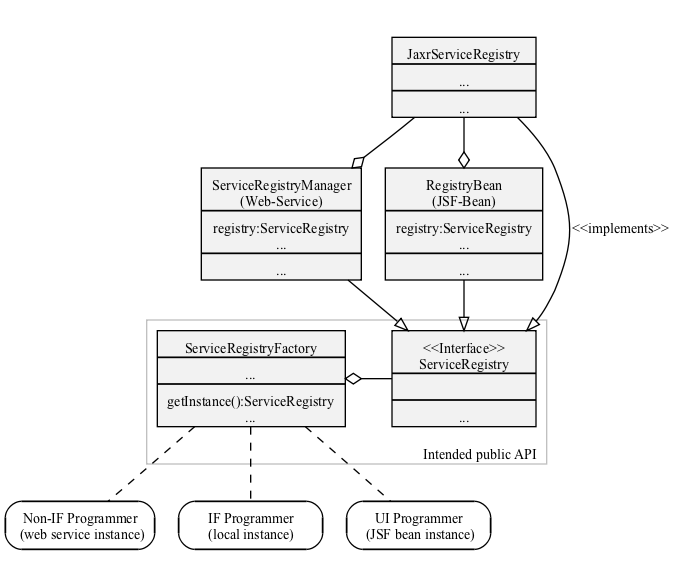
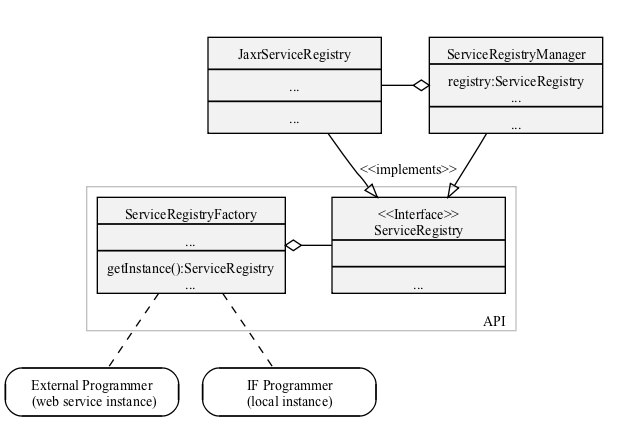
Updated registry documentation (diagrams); fixed registry tests for new build type EAR (changed endpoint URL).

Changed region(s): [[0.0, 0.0602, 0.9666, 0.9931], [0.8458, 0.3912, 0.9968, 0.4213]]

diff --git a/IF/registry/src/test/java/eu/planets_project/ifr/core/registry/api/jaxr/ServiceRegistryWebServiceTests.java b/IF/registry/src/test/java/eu/planets_project/ifr/core/registry/api/jaxr/ServiceRegistryWebServiceTests.java
@@ -11,7 +11,7 @@ import org.junit.BeforeClass;
 public final class ServiceRegistryWebServiceTests extends ServiceRegistryTests {
     /** The remote registry instance used for testing. */
     private static final String TEST_SERVER_WSDL = "http://localhost:8080/"
-            + "pserv-if-registry/ServiceRegistryManager?wsdl";
+            + "pserv-if-registry-pserv-if-registry/ServiceRegistryManager?wsdl";
 
     /** Create a registry and a mock object factory once for all tests. */
     @BeforeClass

diff --git a/IF/registry/src/test/java/eu/planets_project/ifr/core/registry/api/RegistryWebserviceTests.java b/IF/registry/src/test/java/eu/planets_project/ifr/core/registry/api/RegistryWebserviceTests.java
@@ -19,6 +19,6 @@ public class RegistryWebserviceTests extends CoreRegistryTests {
     public static void registryCreation() {
         registry = ServiceCreator.createTestService(Registry.QNAME,
                 RegistryWebservice.class,
-                "/pserv-if-registry/RegistryWebservice?wsdl", Mode.SERVER);
+                "/pserv-if-registry-pserv-if-registry/RegistryWebservice?wsdl", Mode.SERVER);
     }
 }

diff --git a/IF/registry/src/test/java/eu/planets_project/ifr/core/registry/api/FactoryRemoteTests.java b/IF/registry/src/test/java/eu/planets_project/ifr/core/registry/api/FactoryRemoteTests.java
@@ -11,6 +11,6 @@ public class FactoryRemoteTests extends CoreRegistryTests {
     @BeforeClass
     public static void registryCreation() {
         registry = RegistryFactory
-                .getInstance("http://localhost:8080/pserv-if-registry/RegistryWebservice?wsdl");
+                .getInstance("http://localhost:8080/pserv-if-registry-pserv-if-registry/RegistryWebservice?wsdl");
     }
 }
